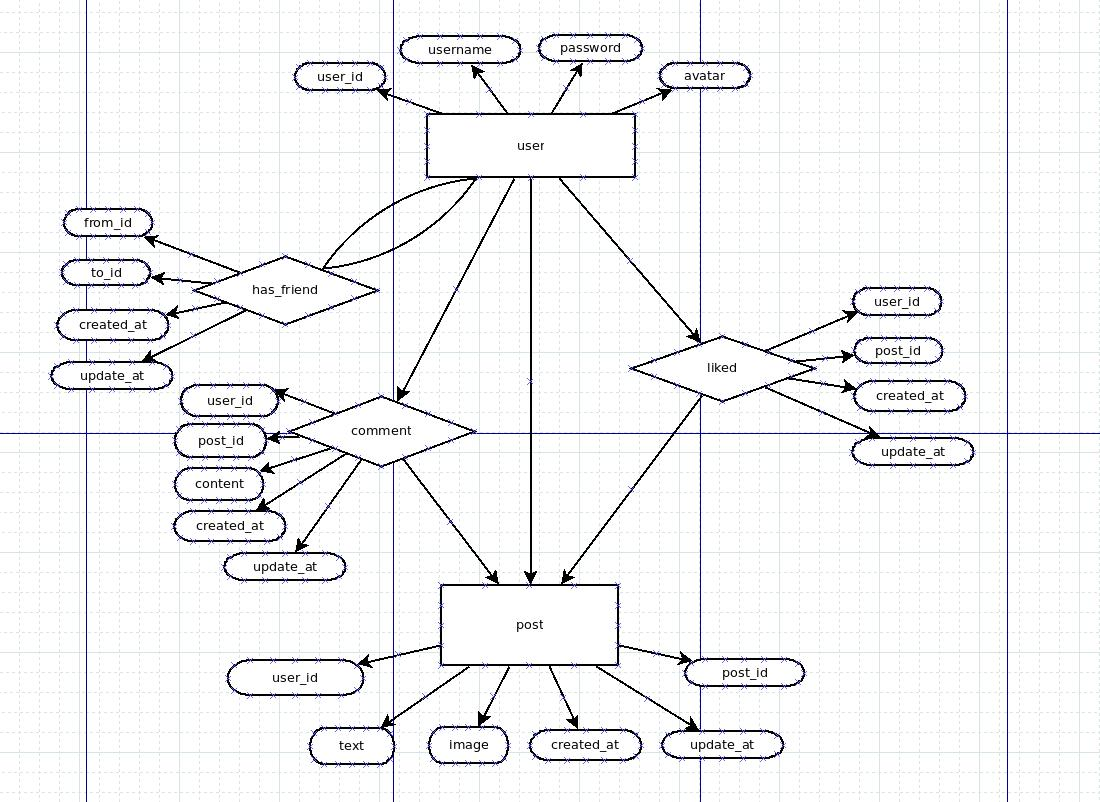
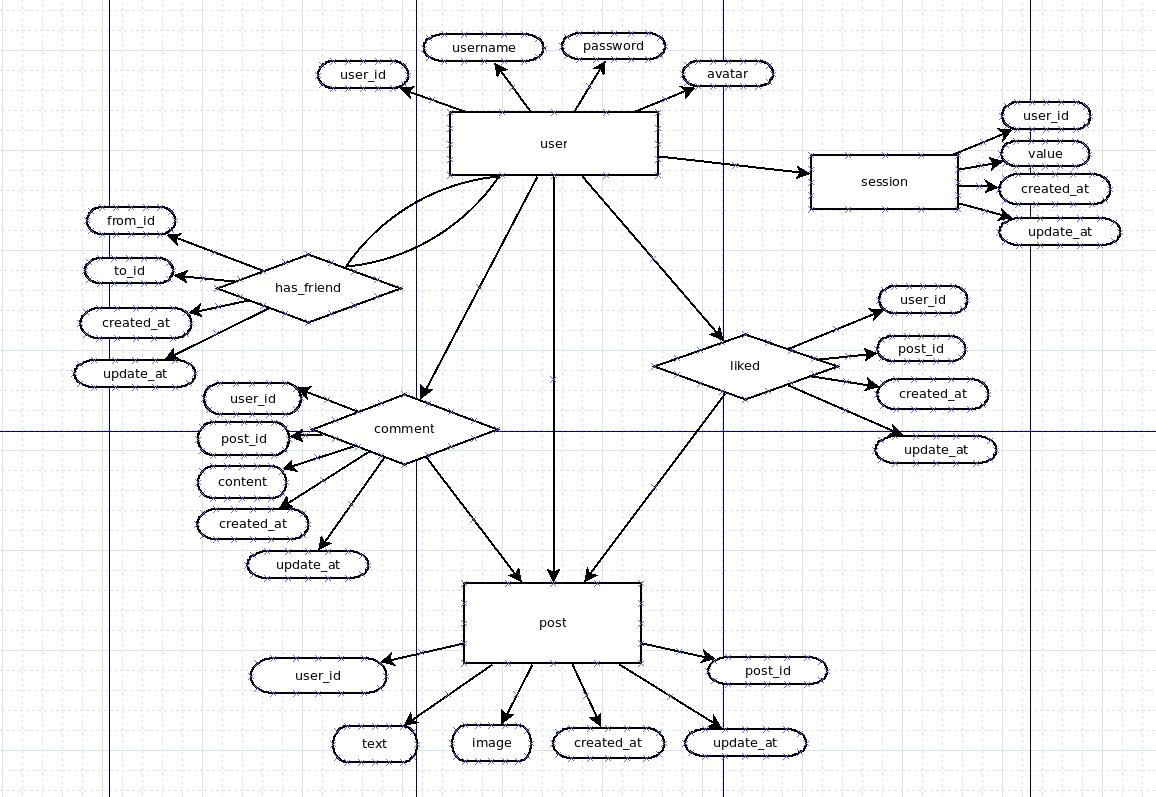
add session

diff --git a/routes/cookie_auth.js b/routes/cookie_auth.js
@@ -25,9 +25,18 @@ function cookie_auth(router, personal_info, prepare) {
           });
           if(search.length == 1) {
             var correct_data = search[0].dataValues;
-            var correct_md5_value = md5(correct_data.username+correct_data.password);
-            if(auth_data.md5_value == correct_md5_value)
-              auth = true;
+            var session = await prepare.session.findAll({
+              where: {
+                user_id: correct_data.user_id
+              }
+            });
+            // mysql 慢8h
+            var cookie_time = (new Date().getTime()-new Date(session[0].updated_at).getTime())/1000-28800;
+            if(session.length == 1 && cookie_time < 86400) { // 登录后得到的cookie有效期为一天
+              var correct_md5_value = md5(correct_data.username+correct_data.password+session[0].value);
+              if(auth_data.md5_value == correct_md5_value)
+                auth = true;
+            }
           }
         }
       }

diff --git a/lib/prepare.js b/lib/prepare.js
@@ -8,12 +8,14 @@ const definePost = require('../modules/post');
 const defineFriendShip = require('../modules/has_friend');
 const defineLike = require('../modules/liked');
 const defineComment = require('../modules/comment');
+const defineSession = require('../modules/session');
 
 var user = defineUser(sequelize);
 var post = definePost(sequelize);
 var has_friend = defineFriendShip(sequelize);
 var liked = defineLike(sequelize);
 var comment = defineComment(sequelize);
+var session = defineSession(sequelize);
 
 user.belongsToMany(user, {as: 'from', through: 'has_friend', foreignKey: 'from_id'});
 user.belongsToMany(user, {as: 'to', through: 'has_friend', foreignKey: 'to_id'});
@@ -29,5 +31,6 @@ module.exports = {
   has_friend,
   post,
   comment,
-  liked
+  liked,
+  session
 };

diff --git a/router.js b/router.js
@@ -13,6 +13,7 @@ const has_friend_middleware = require('./routes/has_friend_middleware');
 const post_middleware = require('./routes/post_middleware');
 const like_middleware = require('./routes/like_middleware');
 const comment_middleware = require('./routes/comment_middleware');
+const session_middleware = require('./routes/session_middleware'); // 禁止一切对session的获取
 
 var personal_info = new Object(); // 记录当前用户信息
 
@@ -24,6 +25,7 @@ function setRoute(app) {
   post_middleware(router, personal_info, prepare);
   like_middleware(router, personal_info, prepare);
   comment_middleware(router, personal_info, prepare);
+  session_middleware(router);
   app.use(router.routes())
   app.use(restql.routes())
 }

diff --git a/routes/password_auth.js b/routes/password_auth.js
@@ -20,7 +20,15 @@ function password_auth(router, prepare) {
           avatar: result[0].avatar
         };
         ctx.response.body = response;
-        var md5_value = md5(data.username+data.password);
+        var random_num = Math.floor(Math.random()*1000);
+        await prepare.session.update({
+          value: random_num
+        },{
+          where: {
+            user_id:result[0].user_id
+          }
+        });
+        var md5_value = md5(data.username+data.password+random_num);
         var cookie_value = {
           "username": data.username,
           "md5_value": md5_value 

diff --git a/modules/session.js b/modules/session.js
@@ -1,0 +1,19 @@
+const Sequelize = require('sequelize');
+
+function defineSession(sequelize) {
+  return sequelize.define('session', {
+    user_id: {
+      type: Sequelize.INTEGER,
+      primaryKey: true
+    },
+    value: {
+      type: Sequelize.INTEGER,
+    }
+  },
+  {
+    underscored: true,
+    tableName: 'session',
+  })   
+}
+
+module.exports = defineSession;

diff --git a/routes/user_middleware.js b/routes/user_middleware.js
@@ -28,6 +28,9 @@ function uesr_middleware(router, personal_info, prepare) {
       ctx.response.status = 400;
     } else {
       await next();
+      await prepare.session.create({ // 创建session
+        user_id:ctx.response.body["dataValues"].user_id
+      });
       ctx.response.body = "OK";
     }
   });

diff --git a/routes/session_middleware.js b/routes/session_middleware.js
@@ -1,0 +1,8 @@
+ 
+function session_middleware(router) {
+  router.all(/\/session/, async (ctx, next) => {
+    ctx.response.status = 400;
+  });
+}
+
+module.exports = session_middleware;

diff --git a/README.md b/README.md
@@ -98,6 +98,17 @@ comment
 | updated_at | char(20)      | YES  |     | NULL    |       |
 | content    | varchar(1000) | YES  |     | NULL    |       |
 +------------+---------------+------+-----+---------+-------+
+
+session
++------------+----------+------+-----+---------+-------+
+| Field      | Type     | Null | Key | Default | Extra |
++------------+----------+------+-----+---------+-------+
+| user_id    | int(11)  | NO   | PRI | NULL    |       |
+| value      | int(11)  | YES  |     | 0       |       |
+| created_at | char(20) | YES  |     | NULL    |       |
+| updated_at | char(20) | YES  |     | NULL    |       |
++------------+----------+------+-----+---------+-------+
+
 ```
 
 ## diagram
